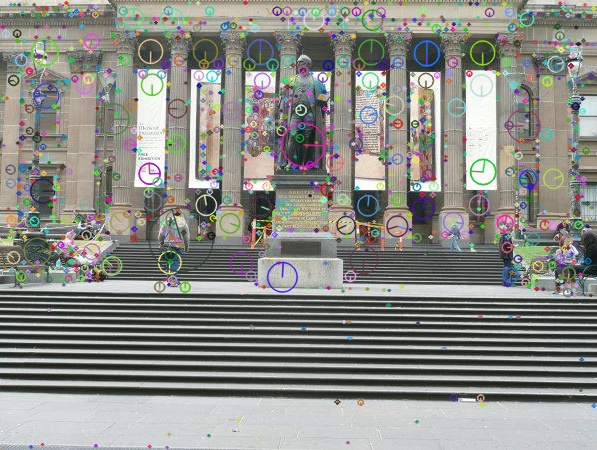
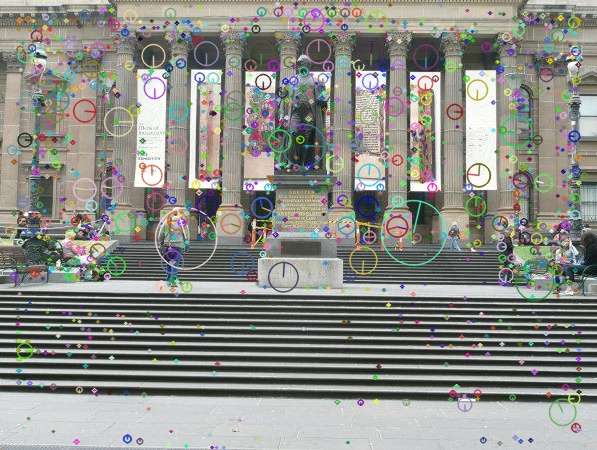
Implemented advanced panorama enhancements including robust homography validation, cylindrical projection, improved blending, and final post-processing (cropping & sharpening)

diff --git a/modules/pipeline.py b/modules/pipeline.py
@@ -5,6 +5,8 @@ from modules.feature import get_features
 from modules.matcher import match_features
 from modules.homography import compute_homography, extract_points_from_matches
 from modules.transform import compute_global_homographies, normalize_homography
+from modules.projection import cylindrical_projection
+from modules.postprocess import crop_black_borders, sharpen_image
 
 def compute_pairwise_homographies(images):
     features = []
@@ -105,7 +107,8 @@ def warp_all_images(images, global_H):
     for i,img in enumerate(images):
         h,w = img.shape[:2]
         corners = np.float32([[0,0],[w,0],[w,h],[0,h]]).reshape(-1,1,2)
-        transformed = cv2.perspectiveTransform(corners,global_H[i])
+        H_norm = normalize_homography(global_H[i])
+        transformed = cv2.perspectiveTransform(corners, H_norm)
         all_corners.append(transformed)
 
     all_corners = np.concatenate(all_corners, axis=0)
@@ -113,18 +116,45 @@ def warp_all_images(images, global_H):
     [xmin, ymin] = np.int32(all_corners.min(axis=0).ravel())
     [xmax, ymax] = np.int32(all_corners.max(axis=0).ravel())
 
-    translation = np.array([[1,0,-xmin],[0,1,-ymin],[0,0,1]])
+    translation = np.array([[1,0,-xmin],[0,1,-ymin],[0,0,1]], dtype=np.float32)
 
     width = xmax - xmin
     height = ymax - ymin
 
-    panorama = np.zeros((height, width, 3), dtype=np.uint8)
+    panorama = np.zeros((height, width, 3), dtype=np.float32)
+    weight = np.zeros((height, width), dtype=np.float32)
 
     for i, img in enumerate(images):
-        H = translation @ global_H[i]
+        H = normalize_homography(translation @ global_H[i])
         warped = cv2.warpPerspective(img, H, (width, height))
-        mask = np.any(warped != 0, axis=2)
-        panorama[mask] = warped[mask]
+        
+        # mask where image exists
+        mask = np.any(warped != 0, axis=2).astype(np.float32)
+
+        # distance transform → gives smooth falloff from edges
+        dist = cv2.distanceTransform(mask.astype(np.uint8), cv2.DIST_L2, 5)
+
+        # normalize weights
+        dist = dist / (dist.max() + 1e-6)
+
+        # sharpen weights (reduce blending region)
+        dist = dist ** 3
+
+        # expand to 3 channels
+        weight_map = np.stack([dist]*3, axis=2)
+
+        # accumulate weighted pixels
+        panorama += warped * weight_map
+        weight += dist
+    
+    # avoid division by zero
+    weight = np.maximum(weight, 1e-6)
+
+    # normalize
+    panorama = panorama / weight[:, :, np.newaxis]
+
+    # convert back to uint8
+    panorama = panorama.astype(np.uint8)
     
     return panorama
 
@@ -132,7 +162,17 @@ def build_panorama(images, ref_index=1):
     print("\n========== BUILDING PANORAMA ==========")
 
     try:
-        features, matches_dict, pairwise_H = compute_pairwise_homographies(images)
+        # Step 1: Create cylindrical images ONCE here
+        print("\n========== CYLINDRICAL PROJECTION ==========")
+
+        cyl_images = []
+        for i, img in enumerate(images):
+            cyl = cylindrical_projection(img)
+            cyl_images.append(cyl)
+            print(f"[Image {i}] Cylindrical projection done")
+
+        # Step 2: Use cylindrical images everywhere
+        features, matches_dict, pairwise_H = compute_pairwise_homographies(cyl_images)
 
         print("\n========== GLOBAL HOMOGRAPHIES ==========")
         global_H = compute_global_homographies(pairwise_H, ref_index)
@@ -143,7 +183,13 @@ def build_panorama(images, ref_index=1):
         print("\n========== WARPING IMAGES ==========")
         panorama = warp_all_images(images, global_H)
 
-        print(f"\nFinal Panorama Size: {panorama.shape}")
+        print("\n========== CROPPING ==========")
+        panorama = crop_black_borders(panorama)
+
+        print("\n========== SHARPENING ==========")
+        panorama = sharpen_image(panorama)
+
+        print(f"\nFinal Panorama Size (Cropped): {panorama.shape}")
 
         return panorama, features, matches_dict, pairwise_H, global_H
 

diff --git a/modules/postprocess.py b/modules/postprocess.py
@@ -1,0 +1,34 @@
+import cv2
+import numpy as np
+
+def crop_black_borders(image):
+    """
+    Automatically crop black borders from stitched panorama.
+    """
+    gray = cv2.cvtColor(image, cv2.COLOR_BGR2GRAY)
+
+    # Threshold to separate black vs non-black
+    _, thresh = cv2.threshold(gray, 1, 255, cv2.THRESH_BINARY)
+
+    # Find contours
+    contours, _ = cv2.findContours(thresh, cv2.RETR_EXTERNAL, cv2.CHAIN_APPROX_SIMPLE)
+
+    if not contours:
+        return image
+
+    # Largest contour = actual panorama
+    largest = max(contours, key=cv2.contourArea)
+
+    x, y, w, h = cv2.boundingRect(largest)
+
+    cropped = image[y:y+h, x:x+w]
+
+    return cropped
+
+def sharpen_image(image):
+    kernel = np.array([
+        [0, -1, 0],
+        [-1, 5,-1],
+        [0, -1, 0]
+    ])
+    return cv2.filter2D(image, -1, kernel)

diff --git a/modules/projection.py b/modules/projection.py
@@ -1,0 +1,32 @@
+import numpy as np
+import cv2
+
+def cylindrical_projection(img, f=700):
+    """
+    Warp image to cylindrical coordinates
+
+    f = focal length (controls curvature)
+    """
+
+    h, w = img.shape[:2]
+    cyl = np.zeros_like(img)
+
+    cx = w // 2
+    cy = h // 2
+
+    for y in range(h):
+        for x in range(w):
+            theta = (x - cx) / f
+            h_ = (y - cy) / f
+
+            X = np.sin(theta)
+            Y = h_
+            Z = np.cos(theta)
+
+            x_ = int(f * X / Z + cx)
+            y_ = int(f * Y / Z + cy)
+
+            if 0 <= x_ < w and 0 <= y_ < h:
+                cyl[y, x] = img[y_, x_]
+
+    return cyl

diff --git a/main.py b/main.py
@@ -8,6 +8,7 @@ from modules.feature import (
 
 from modules.matcher import draw_matches
 from modules.pipeline import build_panorama
+from modules.projection import cylindrical_projection
 
 def main():
     img_paths = [
@@ -20,6 +21,10 @@ def main():
 
     for i, img in enumerate(images):
         print(f"Image {i} loaded successfully. Shape:", img.shape)
+
+    for i, img in enumerate(images):
+        cyl = cylindrical_projection(img)
+        show_image(f"Cylindrical Image {i}", cyl)
 
     print("\nBuilding panorama using pipeline...")
     

diff --git a/modules/transform.py b/modules/transform.py
@@ -15,7 +15,22 @@ def get_identity_homography():
     return np.eye(3)
 
 def normalize_homography(H):
-    return H / H[2, 2]
+    """
+    Normalize homography so bottom-right value = 1
+    and scale remains stable
+    """
+    if H is None:
+        return None
+
+    if H[2, 2] == 0:
+        return H
+
+    H = H / H[2, 2]
+
+    # Optional: stabilize small values
+    H[np.abs(H) < 1e-10] = 0
+
+    return H
 
 def compute_global_homographies(pairwise_H, ref_index):
     """
